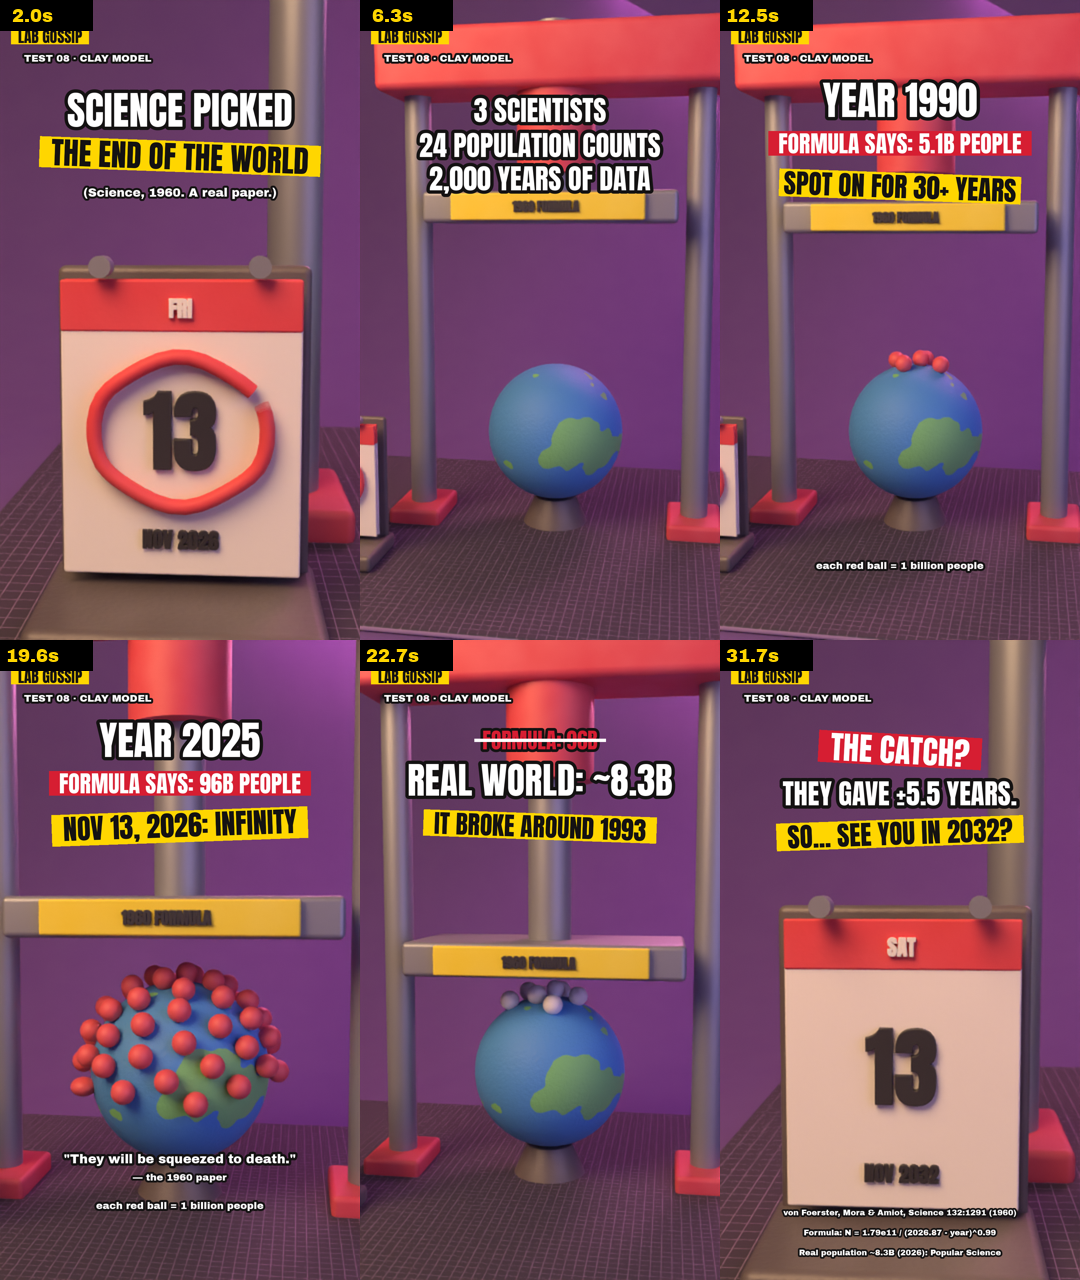
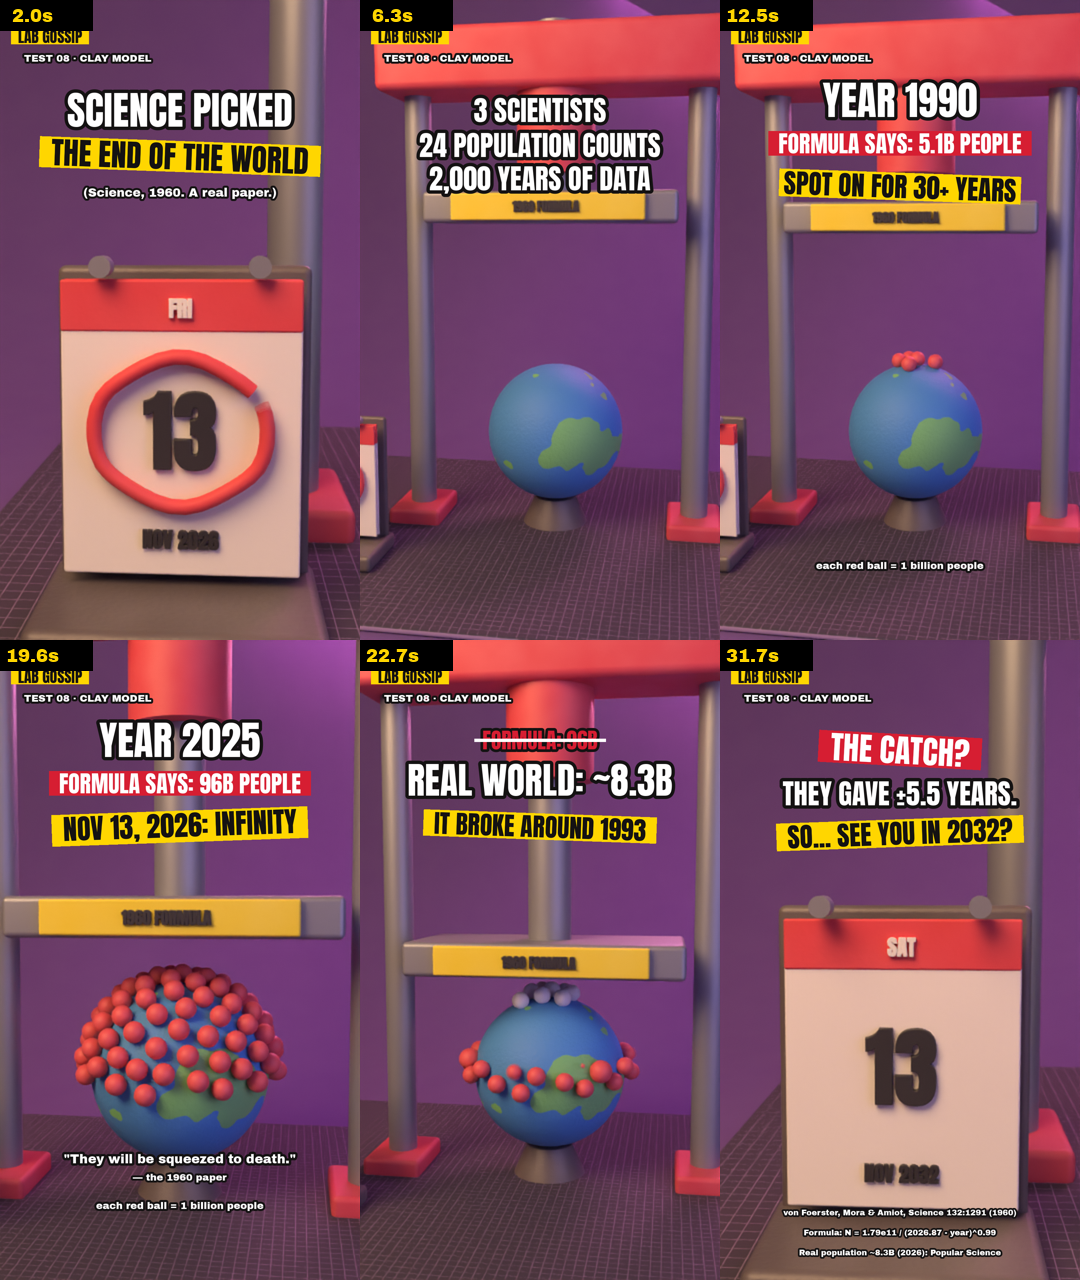
Kit update

Changed region(s): [[0.0611, 0.75, 0.275, 0.875], [0.4278, 0.75, 0.6111, 0.875], [0.825, 0.25, 0.8861, 0.3125]]

diff --git a/episodes/ducttape/composite.py b/episodes/ducttape/composite.py
@@ -34,13 +34,13 @@ def frame(f, img):
     pop(img, sprite("vs.", ANTON(70), WHITE), W / 2, 450, f, 30, HOOK[1])
     pop(img, sprite(" A ROLL OF DUCT TAPE ", ANTON(92), INK, stroke=0, box=YEL, pad=(14, 6), rot=-2), W / 2, 560, f, TAPE_ROLL + 4, HOOK[1])
     # contestant intro
+    # two text blocks per contestant, 3 s each (Codex review round 1: readability)
     for k, ((f0, f1), (name, note)) in enumerate(zip(INTRO_ITEMS, [
-            ("AN ORDINARY FRONT DOOR", "no protection at all"),
-            ("54 SANDBAGS + PLASTIC SHEET", "the classic flood defense"),
-            ("ONE ROLL OF DUCT TAPE", "taped onto the door from the outside")])):
-        pop(img, sprite(f" CONTESTANT #{k + 1} ", ANTON(54), INK, stroke=0, box=YEL, pad=(10, 4), rot=-2), W / 2, 300, f, f0 + 2, f1 - 3)
-        pop(img, sprite(name, ANTON(86 if len(name) < 24 else 70), WHITE), W / 2, 405, f, f0 + 6, f1 - 3)
-        pop(img, sprite(note, ARCH(36), WHITE, stroke=6), W / 2, 500, f, f0 + 12, f1 - 3)
+            ("AN ORDINARY FRONT DOOR", "no protection"),
+            ("54 SANDBAGS + PLASTIC", "the classic defense"),
+            ("ONE ROLL OF DUCT TAPE", "stuck on from outside")])):
+        pop(img, sprite(f" #{k + 1}  {name} ", ANTON(74), INK, stroke=0, box=YEL, pad=(14, 6), rot=-2), W / 2, 330, f, f0 + 3, f1 - 3)
+        pop(img, sprite(note, ARCH(40), WHITE, stroke=6), W / 2, 450, f, f0 + 10, f1 - 3)
     # setup
     pop(img, sprite("SAME DOOR. 3 WAYS.", ANTON(92), WHITE), W / 2, 300, f, SETUP[0] + 10, FILL[0] + 30)
     pop(img, sprite("University of Hull flood lab tests", ARCH(36), WHITE, stroke=6), W / 2, 395, f, SETUP[0] + 22, FILL[0] + 30)

diff --git a/episodes/ducttape/timeline.py b/episodes/ducttape/timeline.py
@@ -3,15 +3,15 @@
   덕트 테이프: 무방비 문 대비 누수 약 97~98% 감소 / 고무 테이프 약 99% / 모래주머니 54개 + 비닐: 최대 약 70%
   물 높이 5cm씩 최대 60cm, 바깥쪽에 붙이고 바깥으로 열리는 문일수록 효과가 좋았음. 원 누수량(리터)은 공개 안 됨.
 """
-FPS, F_END = 24, 864
+FPS, F_END = 24, 936
 
 HOOK = (1, 84)          # 모래주머니 18개 쿵쿵(4~44프레임), 테이프 롤 통, 테이프 착
-INTRO = (84, 228)       # 참가자 소개: 회전대 위에 문 / 모래주머니+비닐 / 덕트 테이프가 차례로
-INTRO_ITEMS = [(84, 132), (132, 180), (180, 228)]
-SETUP = (228, 300)      # 카메라 뒤로 → 3단 실험대
-FILL = (300, 588)       # 바깥 물 0 → 60cm, 안쪽 누수
-RESULT = (588, 744)     # 줄별 결과
-CATCH = (744, 864)
+INTRO = (84, 300)       # 참가자 소개: 회전대 위에 문 / 모래주머니+비닐 / 덕트 테이프가 차례로 (각 3초, Codex 리뷰 반영)
+INTRO_ITEMS = [(84, 156), (156, 228), (228, 300)]
+SETUP = (300, 372)      # 카메라 뒤로 → 3단 실험대
+FILL = (372, 660)       # 바깥 물 0 → 60cm, 안쪽 누수
+RESULT = (660, 816)     # 줄별 결과
+CATCH = (816, 936)
 
 TAPE_ROLL = 46          # 테이프 롤이 떨어지는 프레임
 TAPE_STRIPS = [58, 64]  # 테이프가 붙는 프레임

diff --git a/episodes/doomsday/scene.py b/episodes/doomsday/scene.py
@@ -95,10 +95,13 @@ spots = fib_cap(MAX_BEADS)
 assert len(spots) == MAX_BEADS, f"only {len(spots)} ball positions for {MAX_BEADS} balls"
 drops = bead_drop_frames()
 red_beads, white_beads = [], []
-last = 0
+prev = 0
+LAND_BY = EXP2[1]                              # every ball lands by the time the counter reaches "2025 / 96B" (Codex review round 1)
 for i, n in enumerate(spots):
-    f0 = max(drops[i] if i < len(drops) else EXP2[1], last + (2 if i < 12 else 0)) + random.randint(0, 2)
-    last = f0
+    base = drops[i] if i < len(drops) else EXP2[1]
+    if i < 12: base = max(base, prev + 2)      # the first few balls fall one by one; jitter is NOT carried forward
+    prev = base
+    f0 = min(base + random.randint(0, 2), LAND_BY - 5)
     rest = EC + n * (ER + BR * 0.75)
     b = C.uvsphere(f"bead{i}", BR, rest, seg=20, rings=12); C.set_mats(b, [M_BEAD])
     up = rest + Vector((0, 0, 1.6))

diff --git a/episodes/ducttape/scene.py b/episodes/ducttape/scene.py
@@ -156,7 +156,9 @@ M_TT = C.clay("turntable", (0.96, 0.95, 0.92), rough=0.6, bump=0.15, thumb=0.1)
 C.set_mats(C.cylinder("tt_base", 0.62, 0.1, P + Vector((0, 0, 0.05))), [M_SHELF])
 spin = C.link(bpy.data.objects.new("spin", None)); spin.location = P + Vector((0, 0, 0.1))
 top = C.cylinder("tt_top", 0.58, 0.05, P + Vector((0, 0, 0.125))); C.set_mats(top, [M_TT]); C.parent(top, spin)
-C.keys(spin, "rotation_euler", [(INTRO[0], (0, 0, -0.6)), (INTRO[1], (0, 0, -0.6 + 2 * math.pi * 1.2))], interp="LINEAR")
+# each contestant swings slowly through facing the camera (-40 deg -> +40 deg), so it is seen front-on mid-caption
+for f0, f1 in INTRO_ITEMS:
+    C.keys(spin, "rotation_euler", [(f0, (0, 0, -0.7)), (f1 - 1, (0, 0, 0.7))], interp="LINEAR")
 Z = P.z + 0.15
 items = []
 # 1) an ordinary front door

diff --git a/episodes/ducttape/STORYBOARD.md b/episodes/ducttape/STORYBOARD.md
@@ -1,4 +1,4 @@
-# TEST 09 — Duct tape vs sandbags (36 s, 864 frames @ 24 fps)
+# TEST 09 — Duct tape vs sandbags (39 s, 936 frames @ 24 fps)
 
 Palette `flood`: rainy slate-blue stage, cool light, cement-grey mat, saturated blue water. Captions: Anton, white / yellow box / red box.
 Facts and sources: top of `composite.py`. Frame numbers: `timeline.py`.
@@ -7,9 +7,9 @@ Rig layout: three stacked cut-away test rigs on a shelf. Left of each door = out
 | Time (s) | Frames | Camera | Action | On-screen text | Sound | Intent |
 |---|---|---|---|---|---|---|
 | 0.0–3.5 | 1–84 | Close-up on middle + bottom rigs | 18 clay sandbags drop against the middle door (4–44); a duct-tape roll drops and bounces (46); tape strips slap onto the bottom door (58, 64) | SANDBAGS / vs. / A ROLL OF DUCT TAPE | soft thuds, roll bounce, whoosh + slap | Hook: the matchup |
-| 3.5–9.5 | 84–228 | Hard cut to a turntable (off to the right), slow push-in | Contestants appear one by one, spinning: a front door (84–132), sandbag pile on a plastic sheet (132–180), tape roll with a strip (180–228) | CONTESTANT #1 AN ORDINARY FRONT DOOR — no protection at all / #2 54 SANDBAGS + PLASTIC SHEET — the classic flood defense / #3 ONE ROLL OF DUCT TAPE — taped onto the door from the outside | rising chime per contestant | Introduce every object |
-| 9.5–12.5 | 228–300 | Hard cut back to close-up, pull back to the full three-rig shelf | Rigs at rest | SAME DOOR. 3 WAYS. / University of Hull flood lab tests / WATER UP TO 60 CM; row labels appear | music bed | Set up the test |
-| 12.5–24.5 | 300–588 | Wide, static | Outside water rises 0→60 cm in all rows; inside water grows: fast (no protection), some (sandbags), only a puddle (tape) | WATER: xx CM (5 cm steps) / outside \| door \| inside; row labels | soft bubbles, tick every 5 cm | The experiment |
-| 24.5–27.4 | 588–658 | Wide | Results pop on each row | LEAK: 100% / BLOCKED ~70% / BLOCKED 97-98% | thud, note, three-note chime | Result |
-| 27.4–31.6 | 658–758 | Push in tight on the tape row | Tape door with a dry room next to a flooded neighbour | DUCT TAPE / BLOCKED 97-98% / 54 sandbags: up to ~70% · rubber tape: ~99% | — | The winner |
-| 31.0–36.0 | 744–864 | Pull back to wide | All three rows | THE CATCH? / BEST ON THE OUTSIDE. DEPENDS ON THE DOOR. / TAPE BUYS TIME. IT'S NOT A FLOOD PLAN. + sources, "inside water levels are illustrative" | chime | Honest limitation and safety |
+| 3.5–12.5 | 84–300 | Hard cut to a turntable (off to the right), slow push-in | Contestants appear one by one, 3 s each, spinning: a front door (84–156), sandbag pile on a plastic sheet (156–228), tape roll with a strip (228–300) | #1 AN ORDINARY FRONT DOOR / no protection · #2 54 SANDBAGS + PLASTIC / the classic defense · #3 ONE ROLL OF DUCT TAPE / stuck on from outside | rising chime per contestant | Introduce every object |
+| 12.5–15.5 | 300–372 | Hard cut back to close-up, pull back to the full three-rig shelf | Rigs at rest | SAME DOOR. 3 WAYS. / University of Hull flood lab tests / WATER UP TO 60 CM; row labels appear | music bed | Set up the test |
+| 15.5–27.5 | 372–660 | Wide, static | Outside water rises 0→60 cm in all rows; inside water grows: fast (no protection), some (sandbags), only a puddle (tape) | WATER: xx CM (5 cm steps) / outside \| door \| inside; row labels | soft bubbles, tick every 5 cm | The experiment |
+| 27.5–30.4 | 660–730 | Wide | Results pop on each row | LEAK: 100% / BLOCKED UP TO ~70% / BLOCKED 97-98% | thud, note, three-note chime | Result |
+| 30.4–34.6 | 730–830 | Push in tight on the tape row | Tape door with a dry room next to a flooded neighbour | DUCT TAPE / BLOCKED 97-98% / 54 sandbags: up to ~70% · rubber tape: ~99% | — | The winner |
+| 34.0–39.0 | 816–936 | Pull back to wide | All three rows | THE CATCH? / BEST ON THE OUTSIDE. DEPENDS ON THE DOOR. / TAPE BUYS TIME. IT'S NOT A FLOOD PLAN. + sources, "inside water levels are illustrative" | chime | Honest limitation and safety |
